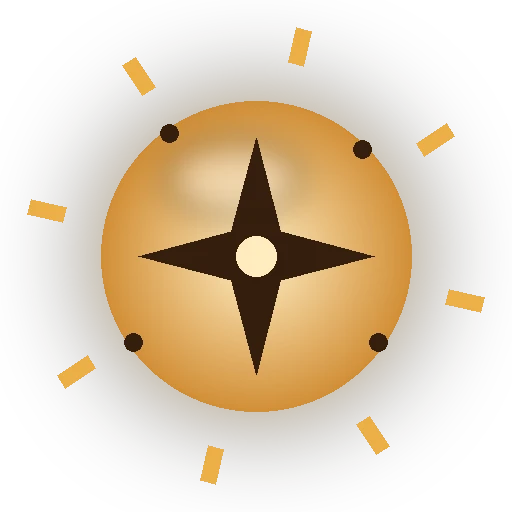
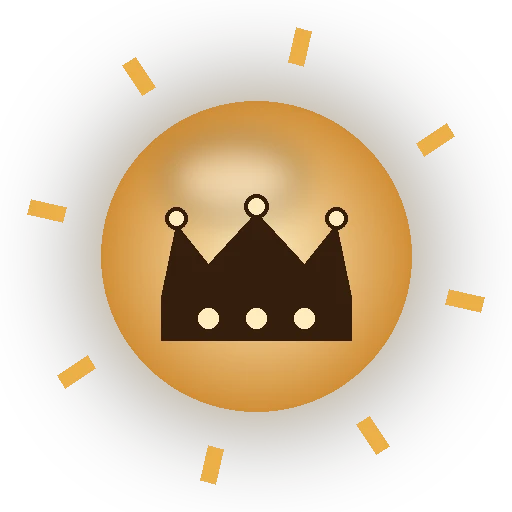
Tienda: sin cuarto item + iconos con significado visual
Retirada la Escarcha eterna (catalogo, badge, tecla C, zonas slot4,
i18n e icono). Quedan los tres cofres pintados: pista (ojo = ver el
movimiento optimo), deshacer (flecha circular = rebobinar) y midas
(corona del rey Midas = doblar oro). Antes midas llevaba una
estrella generica y pista un glifo poco claro; ahora cada icono
cuenta lo que hace el item.

Generated with [Devin](https://devin.ai)

diff --git a/calibrate-tienda.html b/calibrate-tienda.html
@@ -45,12 +45,12 @@ Zona: <select id="kind"></select><br>
 <script>
 const WORLD_ORDER=['ESPACIO','AGUA','TIERRA','FUEGO','HIELO','VIENTO','INFRAMUNDO','MAZMORRA'];
 const IMG=w=>'/assets/tienda/'+w+'/tienda.webp';
-const KINDS=['title','gold','bubble','slot1icon','slot1name','slot1price','slot1sel','slot2icon','slot2name','slot2price','slot2sel','slot3icon','slot3name','slot3price','slot3sel','slot4icon','slot4name','slot4price','slot4sel'];
-const LABELS={title:'TÍTULO',gold:'ORO',bubble:'BOCADILLO',slot1icon:'COFRE 1 · ICONO',slot1name:'COFRE 1 · NOMBRE',slot1price:'COFRE 1 · PRECIO',slot1sel:'COFRE 1 · SELECCIÓN',slot2icon:'COFRE 2 · ICONO',slot2name:'COFRE 2 · NOMBRE',slot2price:'COFRE 2 · PRECIO',slot2sel:'COFRE 2 · SELECCIÓN',slot3icon:'COFRE 3 · ICONO',slot3name:'COFRE 3 · NOMBRE',slot3price:'COFRE 3 · PRECIO',slot3sel:'COFRE 3 · SELECCIÓN',slot4icon:'ÍTEM 4 · ICONO',slot4name:'ÍTEM 4 · NOMBRE',slot4price:'ÍTEM 4 · PRECIO',slot4sel:'ÍTEM 4 · SELECCIÓN'};
+const KINDS=['title','gold','bubble','slot1icon','slot1name','slot1price','slot1sel','slot2icon','slot2name','slot2price','slot2sel','slot3icon','slot3name','slot3price','slot3sel'];
+const LABELS={title:'TÍTULO',gold:'ORO',bubble:'BOCADILLO',slot1icon:'COFRE 1 · ICONO',slot1name:'COFRE 1 · NOMBRE',slot1price:'COFRE 1 · PRECIO',slot1sel:'COFRE 1 · SELECCIÓN',slot2icon:'COFRE 2 · ICONO',slot2name:'COFRE 2 · NOMBRE',slot2price:'COFRE 2 · PRECIO',slot2sel:'COFRE 2 · SELECCIÓN',slot3icon:'COFRE 3 · ICONO',slot3name:'COFRE 3 · NOMBRE',slot3price:'COFRE 3 · PRECIO',slot3sel:'COFRE 3 · SELECCIÓN'};
 const isPoly=k=>k.endsWith('sel');
 // Defaults = constantes actuales de shop.html (sel = trapecio sobre el
-// cofre; el ítem 4 flota sobre el mostrador, no tiene cofre pintado)
-const DEFS={title:{x:.20,y:.035,w:.40,h:.105},gold:{x:.815,y:.045,w:.115,h:.08},bubble:{x:.04,y:.20,w:.24,h:.12},slot1icon:{x:.305,y:.630,w:.120,h:.135},slot1name:{x:.290,y:.775,w:.150,h:.047},slot1price:{x:.290,y:.822,w:.150,h:.038},slot1sel:{polygon:[[.297,.632],[.433,.632],[.448,.863],[.282,.863]]},slot2icon:{x:.470,y:.630,w:.120,h:.135},slot2name:{x:.455,y:.775,w:.150,h:.047},slot2price:{x:.455,y:.822,w:.150,h:.038},slot2sel:{polygon:[[.462,.632],[.598,.632],[.613,.863],[.447,.863]]},slot3icon:{x:.640,y:.630,w:.120,h:.135},slot3name:{x:.625,y:.775,w:.150,h:.047},slot3price:{x:.625,y:.822,w:.150,h:.038},slot3sel:{polygon:[[.632,.632],[.768,.632],[.783,.863],[.617,.863]]},slot4icon:{x:.055,y:.57,w:.12,h:.135},slot4name:{x:.03,y:.715,w:.15,h:.047},slot4price:{x:.03,y:.762,w:.15,h:.038},slot4sel:{polygon:[[.047,.565],[.183,.565],[.193,.803],[.027,.803]]}};
+// cofre pintado de cada ítem)
+const DEFS={title:{x:.20,y:.035,w:.40,h:.105},gold:{x:.815,y:.045,w:.115,h:.08},bubble:{x:.04,y:.20,w:.24,h:.12},slot1icon:{x:.305,y:.630,w:.120,h:.135},slot1name:{x:.290,y:.775,w:.150,h:.047},slot1price:{x:.290,y:.822,w:.150,h:.038},slot1sel:{polygon:[[.297,.632],[.433,.632],[.448,.863],[.282,.863]]},slot2icon:{x:.470,y:.630,w:.120,h:.135},slot2name:{x:.455,y:.775,w:.150,h:.047},slot2price:{x:.455,y:.822,w:.150,h:.038},slot2sel:{polygon:[[.462,.632],[.598,.632],[.613,.863],[.447,.863]]},slot3icon:{x:.640,y:.630,w:.120,h:.135},slot3name:{x:.625,y:.775,w:.150,h:.047},slot3price:{x:.625,y:.822,w:.150,h:.038},slot3sel:{polygon:[[.632,.632],[.768,.632],[.783,.863],[.617,.863]]}};
 const NS='http://www.w3.org/2000/svg';
 const img=document.getElementById('image'),overlay=document.getElementById('overlay'),svg=document.getElementById('draw'),drag=document.getElementById('drag'),worldSelect=document.getElementById('world'),kindSelect=document.getElementById('kind'),coords=document.getElementById('coords'),status=document.getElementById('status');
 let worldIndex=0,kind='title',areas={},dragging=false,start=null,current=null,drawing=[];
@@ -122,7 +122,7 @@ document.addEventListener('keydown',e=>{
   if(e.key==='ArrowUp'){moveA(0,-1);e.preventDefault()}
   if(e.key==='ArrowDown'){moveA(0,1);e.preventDefault()}});
 async function save(){const w=WORLD_ORDER[worldIndex];const body=JSON.stringify({world:w,areas:areas[w]},null,2);try{const r=await fetch('/api/save-shop-areas?world='+encodeURIComponent(w),{method:'POST',headers:{'Content-Type':'application/json'},body});if(!r.ok)throw Error();status.innerHTML='<span class="ok">Guardado '+w+' ('+KINDS.length+' zonas)</span>'}catch{status.innerHTML='<span class="err">Error al guardar</span>'}}
-async function load(){const w=WORLD_ORDER[worldIndex];try{const r=await fetch('/api/shop-areas?world='+encodeURIComponent(w));if(!r.ok)throw Error();const d=await r.json();if(d.areas){for(let n=1;n<=4;n++){const t=d.areas['slot'+n+'text'];if(t&&!t.polygon&&!d.areas['slot'+n+'name']&&!d.areas['slot'+n+'price']){d.areas['slot'+n+'name']={...t,h:t.h*.55};d.areas['slot'+n+'price']={...t,y:t.y+t.h*.55,h:t.h*.45}}}KINDS.forEach(k=>{const s=d.areas[k];if(!s)return;if(isPoly(k)&&!s.polygon&&s.w>0){areas[w][k]={polygon:[[s.x,s.y],[s.x+s.w,s.y],[s.x+s.w,s.y+s.h],[s.x,s.y+s.h]]}}else if(isPoly(k)&&s.polygon){areas[w][k]={polygon:s.polygon.map(p=>[...p])}}else if(!isPoly(k)&&!s.polygon){Object.assign(areas[w][k],s)}});status.innerHTML='<span class="ok">Cargado '+w+'</span>'}else{status.innerHTML='<span class="info">Sin calibración previa para '+w+'</span>'}}catch{status.innerHTML='<span class="info">Sin calibración previa para '+w+'</span>'}render()}
+async function load(){const w=WORLD_ORDER[worldIndex];try{const r=await fetch('/api/shop-areas?world='+encodeURIComponent(w));if(!r.ok)throw Error();const d=await r.json();if(d.areas){for(let n=1;n<=3;n++){const t=d.areas['slot'+n+'text'];if(t&&!t.polygon&&!d.areas['slot'+n+'name']&&!d.areas['slot'+n+'price']){d.areas['slot'+n+'name']={...t,h:t.h*.55};d.areas['slot'+n+'price']={...t,y:t.y+t.h*.55,h:t.h*.45}}}KINDS.forEach(k=>{const s=d.areas[k];if(!s)return;if(isPoly(k)&&!s.polygon&&s.w>0){areas[w][k]={polygon:[[s.x,s.y],[s.x+s.w,s.y],[s.x+s.w,s.y+s.h],[s.x,s.y+s.h]]}}else if(isPoly(k)&&s.polygon){areas[w][k]={polygon:s.polygon.map(p=>[...p])}}else if(!isPoly(k)&&!s.polygon){Object.assign(areas[w][k],s)}});status.innerHTML='<span class="ok">Cargado '+w+'</span>'}else{status.innerHTML='<span class="info">Sin calibración previa para '+w+'</span>'}}catch{status.innerHTML='<span class="info">Sin calibración previa para '+w+'</span>'}render()}
 img.onerror=()=>status.innerHTML='<span class="err">No se pudo cargar la tienda</span>';img.onload=render;img.src=IMG(WORLD_ORDER[0]);load();loadI18n().then(render);
 </script>
 </body></html>

diff --git a/game.html b/game.html
@@ -369,10 +369,6 @@
       <img src="/assets/tienda/iconos/midas.webp" alt="" onerror="this.src='/assets/comunes/calavera.webp'">
       <span id="midas-count">0</span><span class="on">×2</span>
     </div>
-    <div class="item-badge" id="badge-frost" style="display:none">
-      <img src="/assets/tienda/iconos/escarcha.webp" alt="" onerror="this.src='/assets/comunes/calavera.webp'">
-      <span id="frost-count">0</span>
-    </div>
     <div class="item-badge" id="badge-undo" style="display:none">
       <img src="/assets/tienda/iconos/deshacer.webp" alt="" onerror="this.src='/assets/comunes/calavera.webp'">
       <span id="undo-count">0</span>
@@ -1898,7 +1894,7 @@ document.addEventListener('keydown', (e) => {
     if (e.key === 'h' || e.key === 'H') { e.preventDefault(); useHintItem(); return; }
     if (e.key === 'u' || e.key === 'U') { e.preventDefault(); useUndoItem(); return; }
     if (e.key === 'm' || e.key === 'M') { e.preventDefault(); useMidasItem(); return; }
-    if (e.key === 'c' || e.key === 'C') { e.preventDefault(); useFrostItem(); return; }
+
     const dirs = {
       'ArrowUp': [0, -1], 'ArrowDown': [0, 1],
       'ArrowLeft': [-1, 0], 'ArrowRight': [1, 0],
@@ -1951,11 +1947,9 @@ function updateItemBadges() {
   };
   show('hint-badge', inv.pista || 0);
   show('badge-undo', inv.deshacer || 0);
-  show('badge-frost', inv.escarcha || 0);
   show('badge-midas', inv.midas || 0, midasActive);
   document.getElementById('hint-count').textContent = String(inv.pista || 0);
   document.getElementById('undo-count').textContent = String(inv.deshacer || 0);
-  document.getElementById('frost-count').textContent = String(inv.escarcha || 0);
   document.getElementById('midas-count').textContent = String(inv.midas || 0);
 }
 function denyBadge(id) {
@@ -2006,22 +2000,7 @@ async function useMidasItem() {
     AssetsCache.playSound('/assets/sounds/comun/moneda.wav', 0.7);
   } catch { denyBadge('badge-midas'); }
 }
-// Escarcha: aturde a TODOS los enemigos 3 turnos — la misma regla que
-// la trampa sobre ellos. Útil para abrir una ventana de timing.
-async function useFrostItem() {
-  if (!REAL_MODE || gameOver || countingDown || modalOpen) return;
-  if (!((playerData?.inventory?.escarcha) > 0)) { denyBadge('badge-frost'); return; }
-  try {
-    if (!(await consumeShopItem('escarcha'))) { denyBadge('badge-frost'); return; }
-    enemies.forEach((e, i) => {
-      e.stunnedTurns = Math.max(e.stunnedTurns || 0, 3);
-      enemyTrapFx(i);
-    });
-    updateEnemyPositions();
-    updateItemBadges();
-    AssetsCache.playSound('/assets/sounds/comun/trampa.wav', 0.7);
-  } catch { denyBadge('badge-frost'); }
-}
+
 async function useHintItem() {
   if (!REAL_MODE || gameOver || countingDown || modalOpen) return;
   const badge = document.getElementById('hint-badge');
@@ -2067,9 +2046,7 @@ document.getElementById('badge-undo').addEventListener('pointerdown', e => {
 document.getElementById('badge-midas').addEventListener('pointerdown', e => {
   e.preventDefault(); e.stopPropagation(); useMidasItem();
 });
-document.getElementById('badge-frost').addEventListener('pointerdown', e => {
-  e.preventDefault(); e.stopPropagation(); useFrostItem();
-});
+
 
 // === Puente táctil (web/tizen.js, Android) ===
 // Un tap sobre el tablero mueve un paso en la dirección dominante desde la

diff --git a/tools/mk-shop-icons.py b/tools/mk-shop-icons.py
@@ -1,8 +1,13 @@
-# Iconos de tienda al estilo de pista.webp: orbe dorado con glifo oscuro.
+# Iconos de tienda: orbe dorado con glifo oscuro, uno por item.
+#   pista    = ojo (revela el movimiento optimo)
+#   deshacer = flecha circular (rebobina el turno)
+#   midas    = corona del rey Midas (dobla el oro de la pantalla)
 from PIL import Image, ImageDraw, ImageFilter
 import math
 
 DARK = (52, 30, 12, 255)
+CREAM = (255, 236, 190, 255)
+
 
 def base():
     im = Image.new('RGBA', (512, 512), (0, 0, 0, 0))
@@ -29,6 +34,28 @@ def base():
         d.line([x0, y0, x1, y1], fill=(235, 175, 70, 255), width=16)
     return im, ImageDraw.Draw(im)
 
+
+def pista():
+    im, d = base()
+    cx, cy = 256, 256
+    # almendra del ojo: interseccion de dos circulos (centros arriba/abajo)
+    R, c = 172, 122
+    half_w = math.sqrt(R * R - c * c)
+    pts = []
+    for i in range(41):  # arco inferior del circulo superior (45..135 deg)
+        a = math.radians(45 + i * (90 / 40))
+        pts.append((cx + R * math.cos(a), cy - c + R * math.sin(a)))
+    for i in range(41):  # arco superior del circulo inferior (225..315 deg)
+        a = math.radians(225 + i * (90 / 40))
+        pts.append((cx + R * math.cos(a), cy + c + R * math.sin(a)))
+    d.polygon(pts, fill=DARK)
+    # iris y pupila (crema sobre glifo oscuro)
+    d.ellipse([cx - 46, cy - 46, cx + 46, cy + 46], fill=CREAM)
+    d.ellipse([cx - 20, cy - 20, cx + 20, cy + 20], fill=DARK)
+    d.ellipse([cx - 34, cy - 34, cx - 22, cy - 22], fill=CREAM)
+    return im
+
+
 def arc_arrow():
     im, d = base()
     # arco casi completo (flecha antihoraria), punta al inicio
@@ -45,43 +72,25 @@ def arc_arrow():
     d.arc([155, 155, 357, 357], start=300, end=350, fill=DARK, width=26)
     return im
 
+
 def midas():
     im, d = base()
-    # estrella de 4 puntas (brillo de oro)
-    cx, cy, L, S = 256, 256, 118, 34
-    pts = []
-    for k in range(4):
-        a = math.radians(k * 90 - 90)
-        pts.append((cx + math.cos(a) * L, cy + math.sin(a) * L))
-        a2 = a + math.radians(45)
-        pts.append((cx + math.cos(a2) * S, cy + math.sin(a2) * S))
-    d.polygon(pts, fill=DARK)
-    d.ellipse([cx - 20, cy - 20, cx + 20, cy + 20], fill=(255, 236, 190, 255))
-    # destellos pequenos
-    for a in (35, 145, 235, 315):
-        r = math.radians(a)
-        sx, sy = cx + math.cos(r) * 150, cy + math.sin(r) * 150
-        d.ellipse([sx - 9, sy - 9, sx + 9, sy + 9], fill=DARK)
+    cx, cy = 256, 262
+    # corona: banda + tres puntas en zigzag
+    d.rectangle([cx - 95, cy + 35, cx + 95, cy + 78], fill=DARK)
+    d.polygon([(cx - 95, cy + 35), (cx - 80, cy - 38), (cx - 48, cy + 2),
+               (cx, cy - 50), (cx + 48, cy + 2), (cx + 80, cy - 38),
+               (cx + 95, cy + 35)], fill=DARK)
+    # joyas en las puntas y en la banda
+    for jx, jy, jr in [(cx - 80, cy - 44, 11), (cx, cy - 56, 12), (cx + 80, cy - 44, 11)]:
+        d.ellipse([jx - jr, jy - jr, jx + jr, jy + jr], fill=DARK)
+        d.ellipse([jx - jr + 4, jy - jr + 4, jx + jr - 4, jy + jr - 4], fill=CREAM)
+    for jx in (cx - 48, cx, cx + 48):
+        d.ellipse([jx - 10, cy + 46, jx + 10, cy + 66], fill=CREAM)
     return im
 
+
+pista().save('assets/tienda/iconos/pista.webp', quality=90)
 arc_arrow().save('assets/tienda/iconos/deshacer.webp', quality=90)
 midas().save('assets/tienda/iconos/midas.webp', quality=90)
 print('iconos ok')
-
-def escarcha():
-    im, d = base()
-    cx, cy = 256, 256
-    # copo de nieve: 6 brazos con puntas en V
-    for k in range(6):
-        a = math.radians(k * 60 - 90)
-        x1, y1 = cx + math.cos(a) * 115, cy + math.sin(a) * 115
-        d.line([cx, cy, x1, y1], fill=DARK, width=22)
-        for sgn in (-1, 1):
-            ta = a + sgn * math.radians(38)
-            bx, by = cx + math.cos(a) * 78, cy + math.sin(a) * 78
-            d.line([bx, by, bx + math.cos(ta) * 30, by + math.sin(ta) * 30], fill=DARK, width=14)
-    d.ellipse([cx - 22, cy - 22, cx + 22, cy + 22], fill=(255, 236, 190, 255))
-    return im
-
-escarcha().save('assets/tienda/iconos/escarcha.webp', quality=90)
-print('escarcha ok')

diff --git a/AGENTS.md b/AGENTS.md
@@ -320,8 +320,8 @@ serpiente 4×3 que cuelga de una isla normal y no cuenta como nivel.
   moneda ya viene pintada; fondo fallback si el mundo no la trae, p. ej.
   VIENTO) y en cada cofre el icono, el nombre y el precio del ítem en
   zonas separadas (`slotNicon`/`slotNname`/`slotNprice`; el `.item-slot`
-  cubre la unión de las tres). Ítem 4+: `slot4*` flotante sobre el
-  mostrador (no hay cuarto cofre pintado). Máx. 1 por tipo: si ya se
+  cubre la unión de las tres). `slotAreas(i)` soporta ítems extra
+  (`slot4*` en `areas.json` o flotante a la izquierda). Máx. 1 por tipo: si ya se
   tiene, el slot sale `disabled` (gris) sin texto extra.
   Bocadillo del tendero con el nombre como cabecera dentro de la misma
   caja (`shop.keeper.<MUNDO>`, `shop.welcome`). Teclas: ←→ elegir,
@@ -356,11 +356,6 @@ serpiente 4×3 que cuelga de una isla normal y no cuenta como nivel.
     (`undoStack`: jugador, enemigos, aturdimientos y contador).
   - `midas` (50) — tecla **M** o badge: se ARMA en la pantalla y duplica
     `winGoldEarned` al ganarla; si pierdes o reinicias, se pierde.
-  - `escarcha` (80) — tecla **C** o badge: aturde a TODOS los enemigos 3
-    turnos (`stunnedTurns=3`, la regla de la trampa sobre ellos).
-  El ítem 4º no tiene cofre pintado: flota sobre el mostrador a la
-  izquierda salvo que el mundo tenga `slot4icon`/`slot4text`/`slot4sel`
-  calibrados en su `areas.json` (el calibrador los incluye).
   Los badges apilados (`#item-badges`, inf-der) muestran contador; el de
   midas brilla con `×2` mientras está armado. El tendero rota un
   agradecimiento (`shop.thanks.0..2`) tras cada compra.
